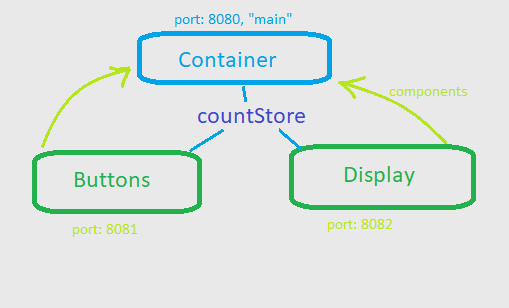
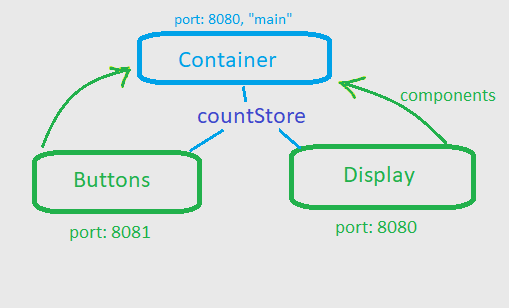
refactor: corrige gramatica no readme, e altera cores na imagem de exemplo do projeto

diff --git a/README.md b/README.md
@@ -2,7 +2,7 @@
 
 ![Contador](./shared/img/doc/contador.gif)
 
-### O foco desse projeto é apenas exemplificar o compartilamento de componentes react e estados globais, atravez do Module Federation.
+### O foco desse projeto é apenas exemplificar o compartilhamento de componentes react e estados globais, através do Module Federation.
 
 <br />
 
